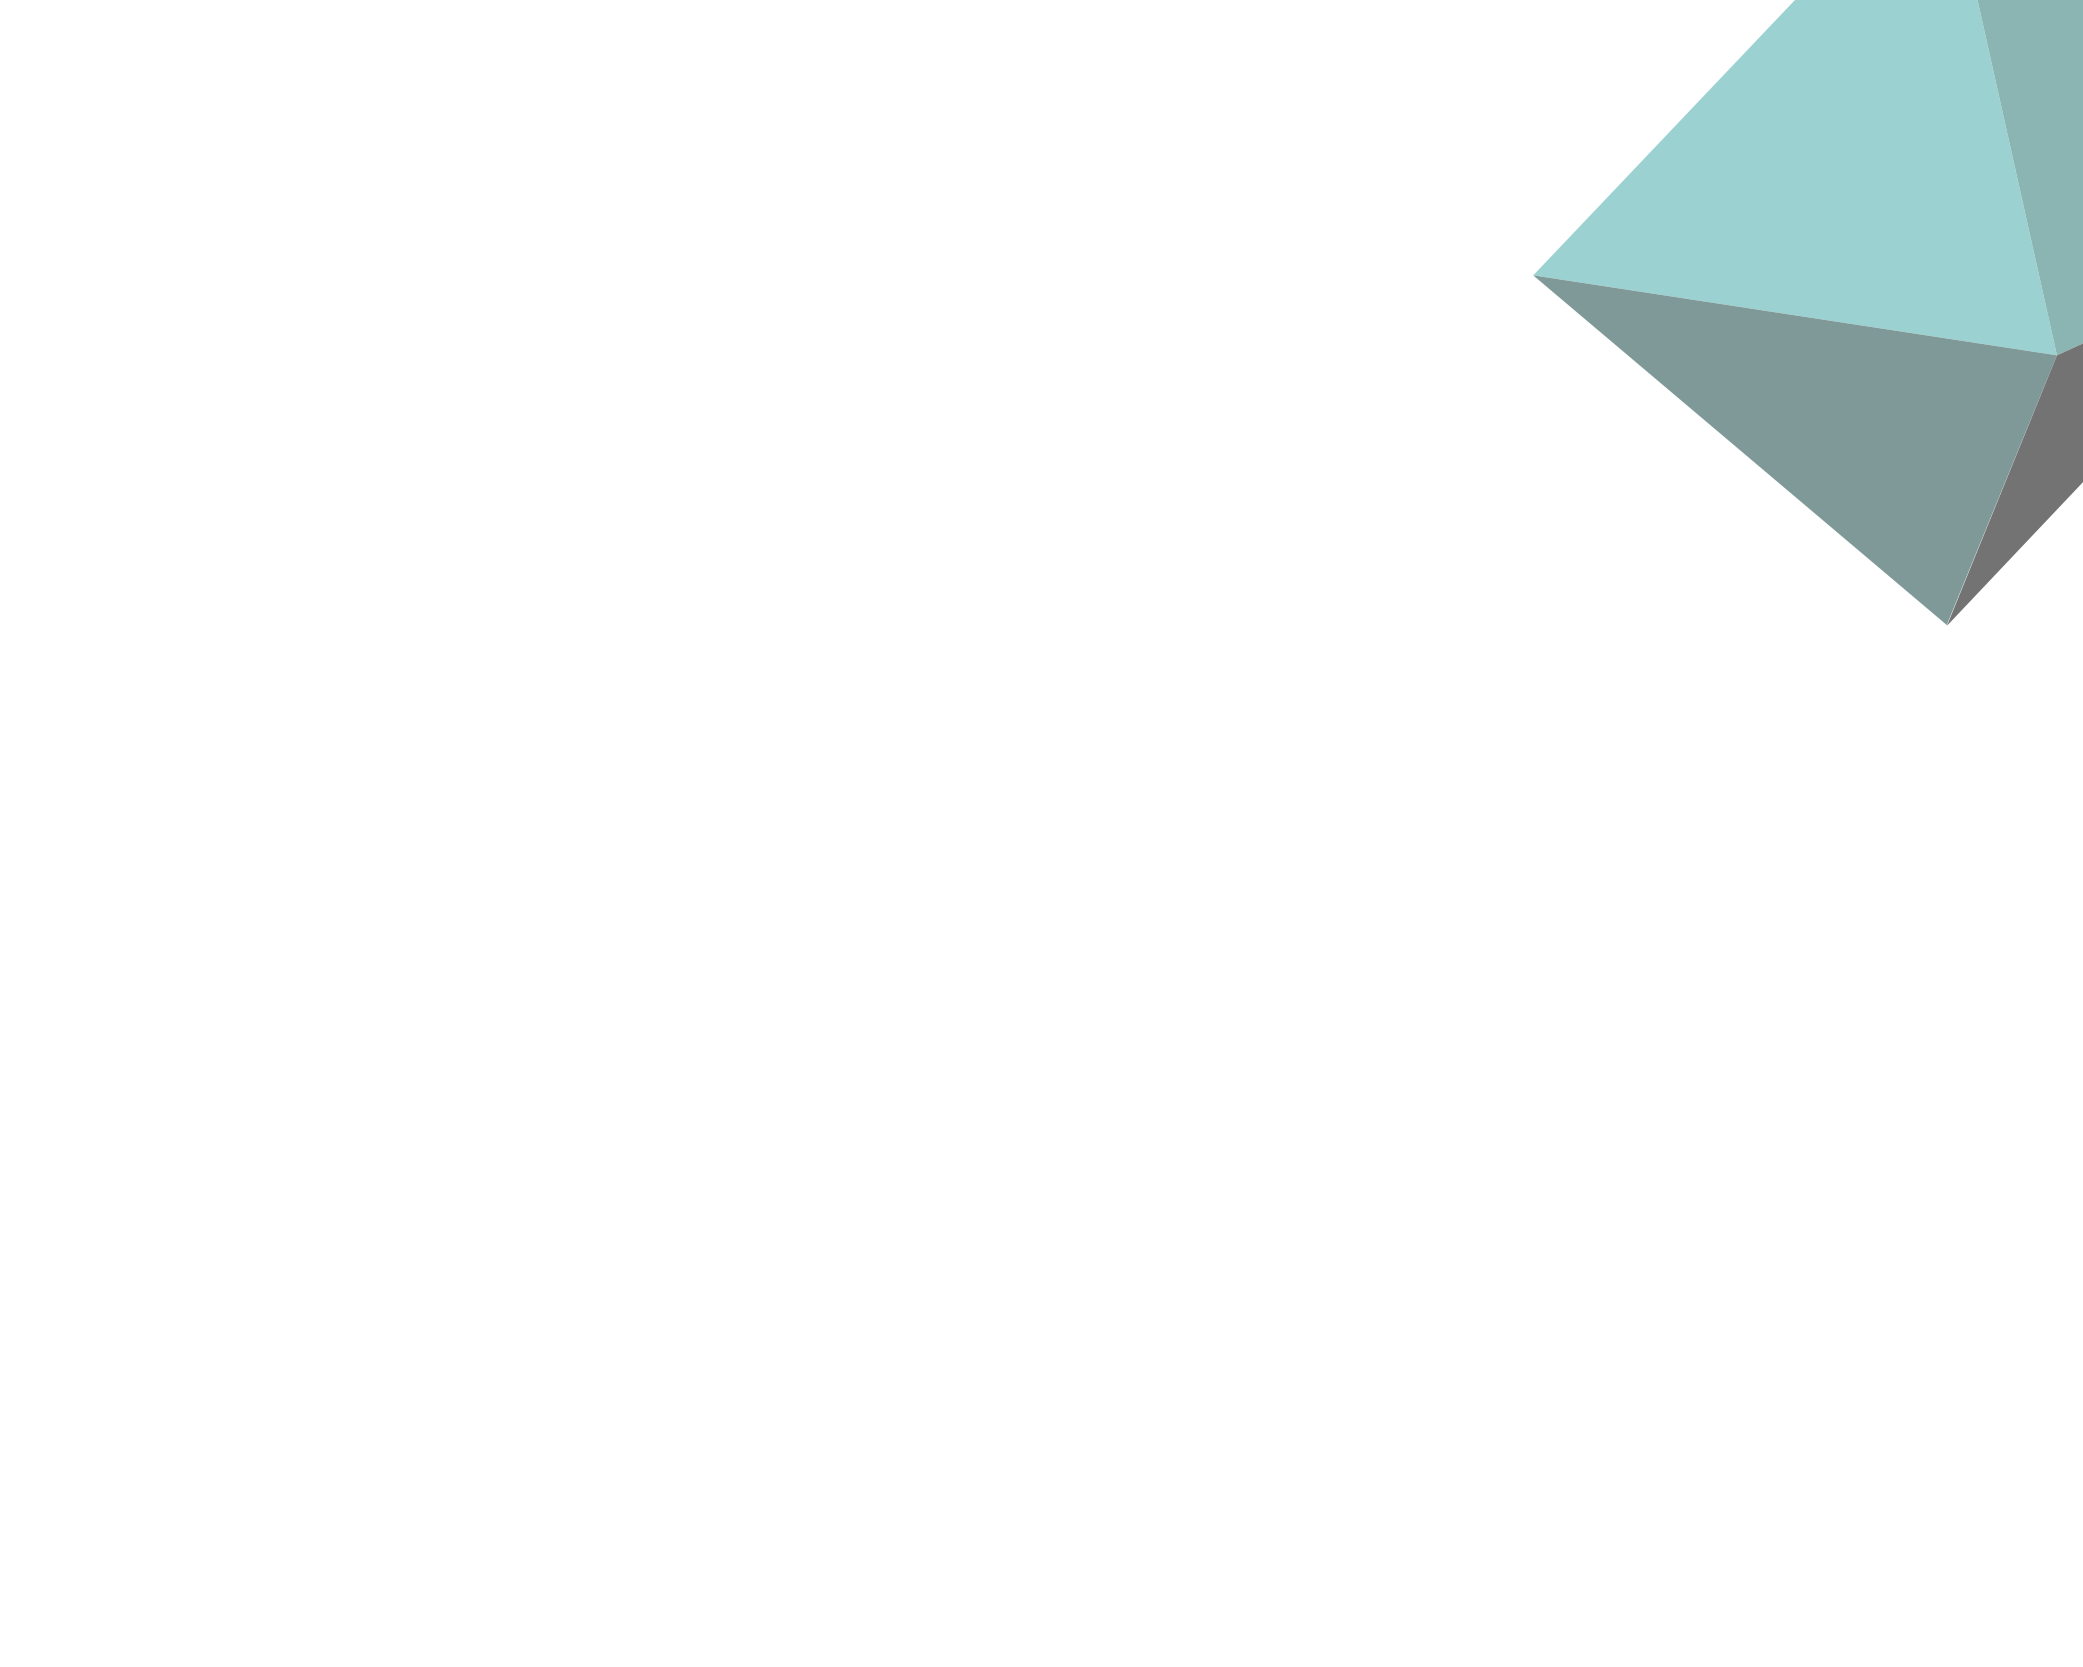
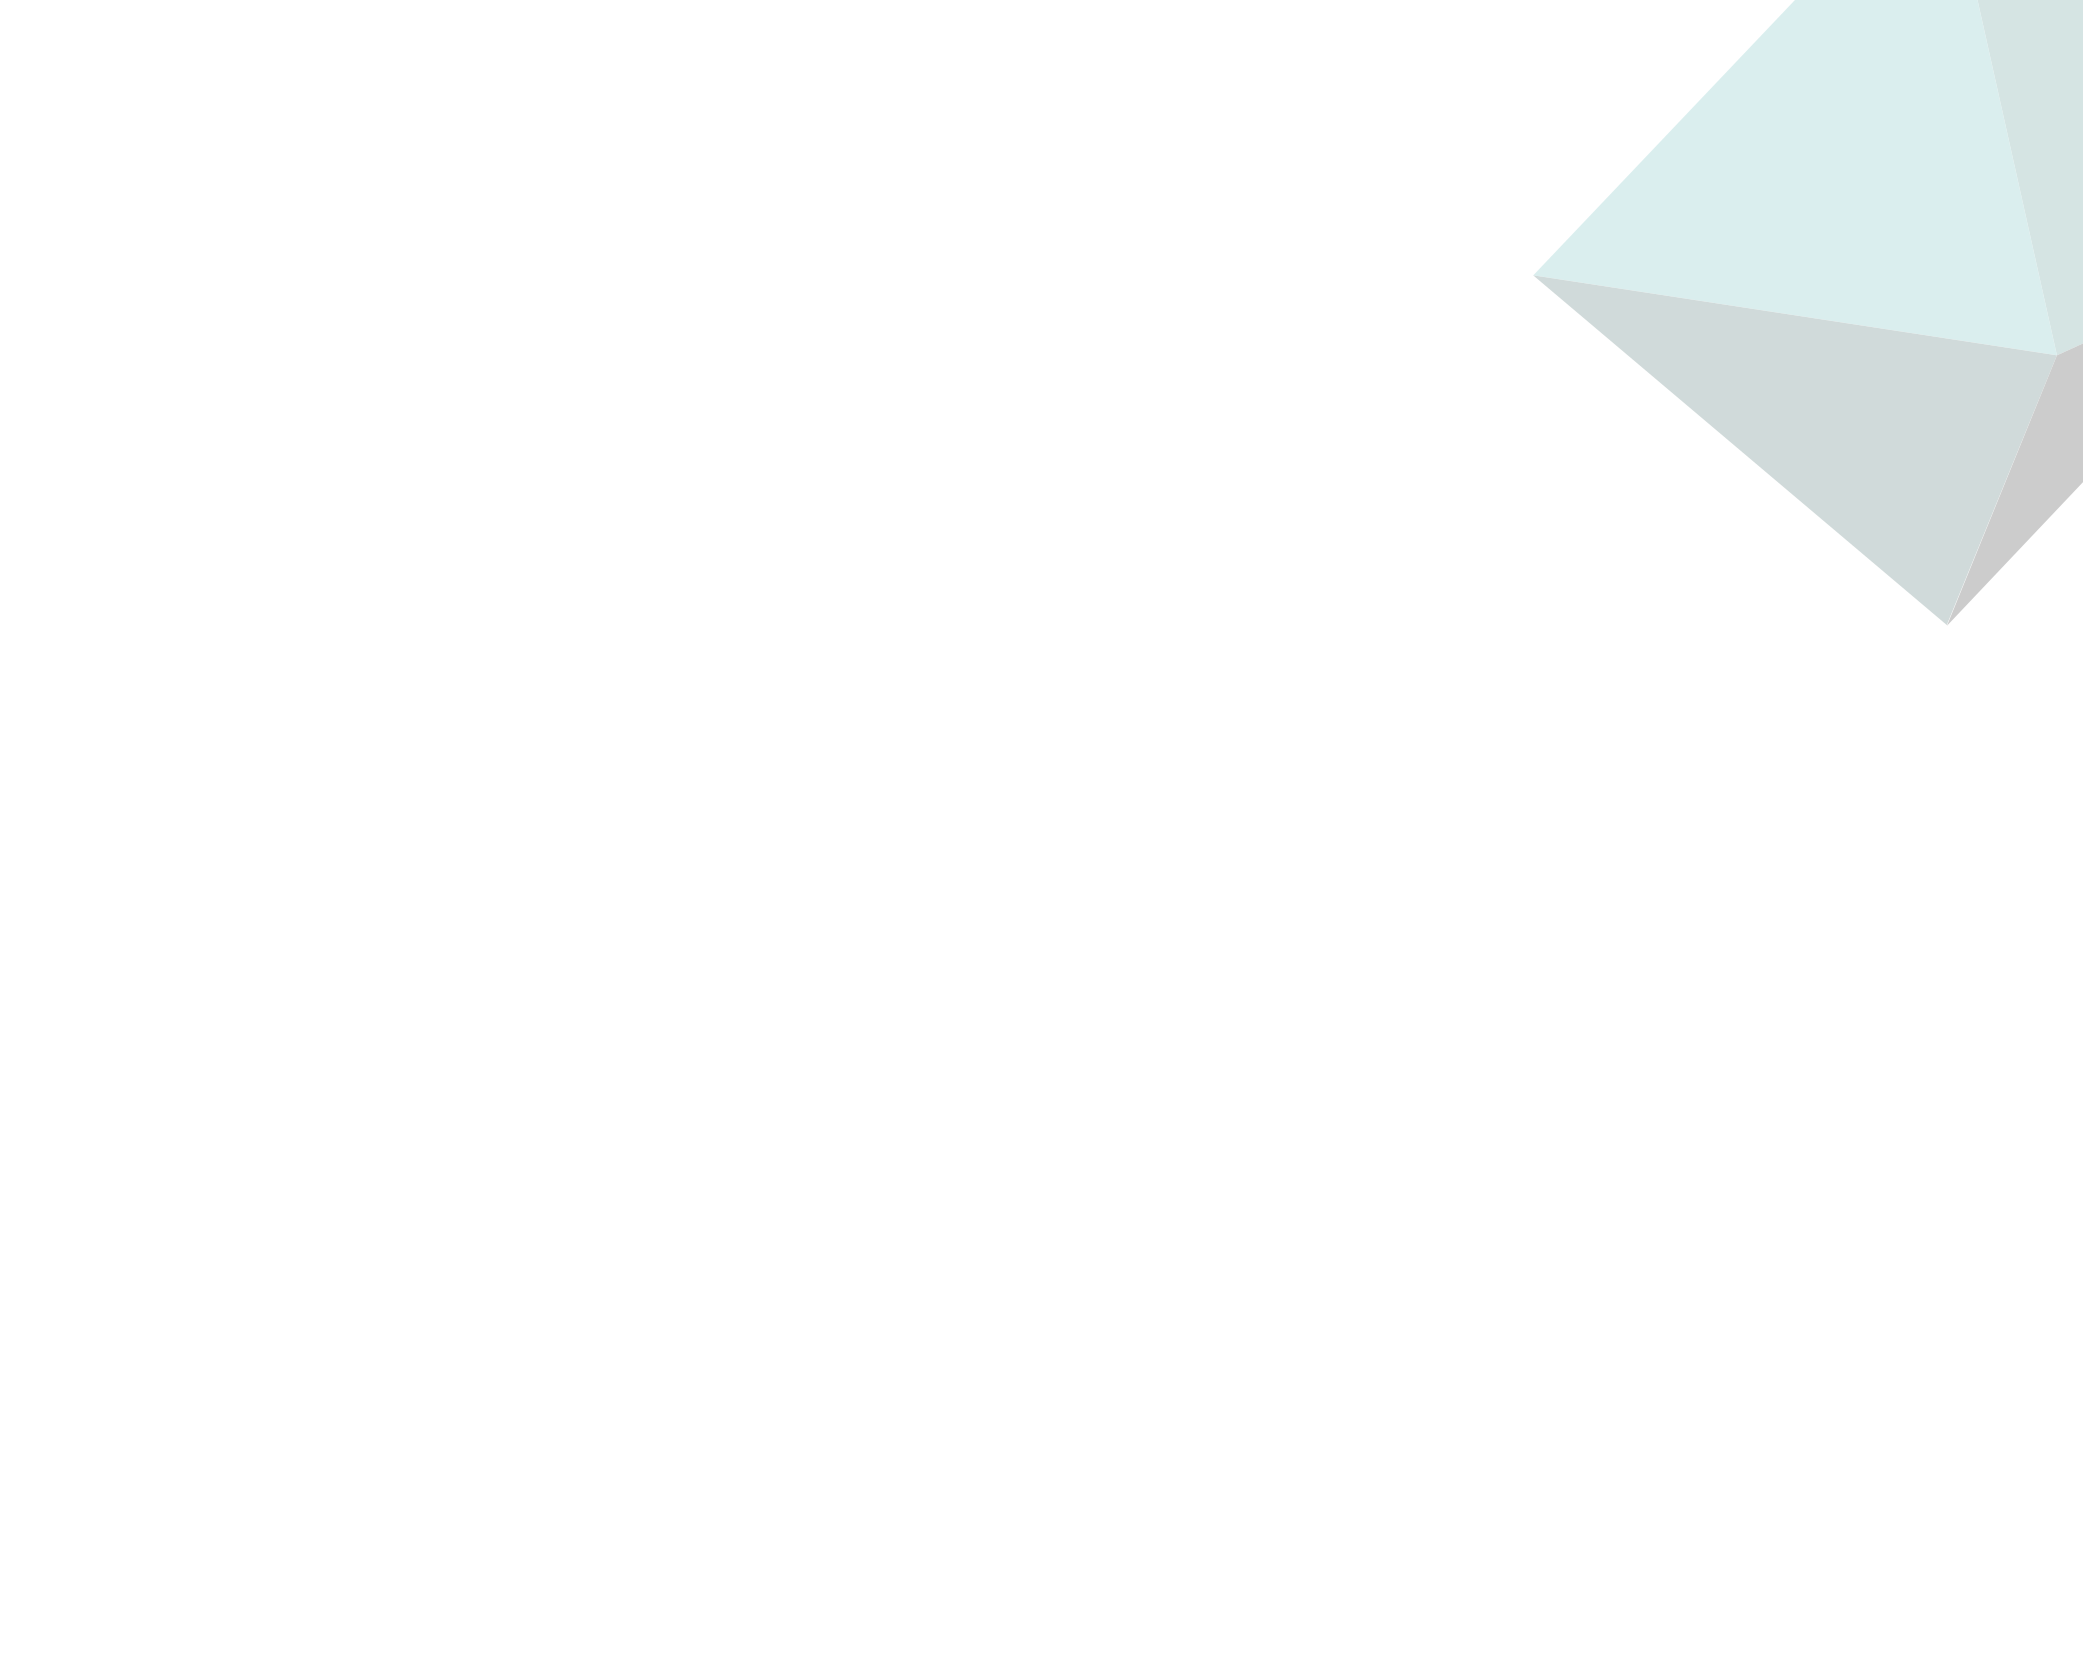
Made homepage responsive + desgin updates
+ chnanged backgrounds to be more faded
+ added correct intro texts for useCases and Features
+ added a bunch of media queries to make things more responsive

Changed region(s): [[0.7177, 0.0, 1.0, 0.3743]]

diff --git a/assets/css/main.css b/assets/css/main.css
@@ -28,7 +28,7 @@
 #landing-flex-box {
   display: flex;
   flex-direction: column;
-  justify-content: space-between;
+  justify-content: space-around;
   height: 100%;
   width: 100%;
   max-width: none;
@@ -55,18 +55,36 @@
 }
 
 #sec-about-us {
-  background-image: url(../../assets/img/backgrounds/bg_oct.png);
+  background-image: url(../../assets/img/backgrounds/bg_oct_md.png);
   background-repeat: no-repeat;
-  background-position: right;
-  background-size: auto 100%;
+  background-position: right top;
+  background-size: contain;
+}
+
+@media (min-width: 992px) {
+  #sec-about-us {
+    background-image: url(../../assets/img/backgrounds/bg_oct.png);
+    background-repeat: no-repeat;
+    background-position: right top;
+    background-size: contain;
+  }
 }
 
 #sec-info {
-  height: 100vh;
-  background-image: url(../../assets/img/backgrounds/bg_dod.png);
+  min-height: 100vh;
+  background-image: url(../../assets/img/backgrounds/bg_dod_md.png);
   background-repeat: no-repeat;
-  background-position: left;
-  background-size: auto 100%;
+  background-position: left bottom;
+  background-size: contain;
+}
+
+@media (min-width: 992px) {
+  #sec-info {
+    background-image: url(../../assets/img/backgrounds/bg_dod.png);
+    background-repeat: no-repeat;
+    background-position: left bottom;
+    background-size: contain;
+  }
 }
 
 .next-sec-button {
@@ -163,15 +181,28 @@ html, body {
 }
 
 .info-paragraph {
-  padding-top: 80px;
+  padding-top: 15vh;
   margin-bottom: 40px;
   text-align: center;
+}
+
+@media (min-width: 576px) {
+  .info-paragraph {
+    font-size: 1.1rem;
+    padding-top: 20vh;
+  }
 }
 
 .med-width-paragraph {
   opacity: 0.7;
   max-width: 600px;
-  margin: auto;
+  margin: 2em auto;
+}
+
+@media (min-width: 1200px) {
+  .med-width-paragraph {
+    max-width: 700px;
+  }
 }
 
 .person-col {
@@ -190,7 +221,7 @@ html, body {
 }
 
 #carousel-1 {
-  max-width: 700px;
+  max-width: 800px;
   margin: auto auto;
 }
 
@@ -335,17 +366,46 @@ html, body {
 }
 
 #use-cases {
-  background: url("../../assets/img/backgrounds/bg_iso.png");
+  background: url("../../assets/img/backgrounds/bg_cube_md.png");
   background-repeat: no-repeat;
-  background-position: left;
-  background-size: auto 100%;
+  background-position: left top;
+  background-size: contain;
   background-color: #f6f6f6;
+  min-height: 100vh;
+}
+
+@media (min-width: 992px) {
+  #use-cases {
+    background: url("../../assets/img/backgrounds/bg_cube.png");
+    background-size: contain;
+    background-repeat: no-repeat;
+    background-position: left top;
+    background-color: #f6f6f6;
+  }
 }
 
 #sec-services {
-  background: url("../../assets/img/backgrounds/bg_tetra.png");
+  background: url("../../assets/img/backgrounds/bg_tetra_md.png");
   background-repeat: no-repeat;
   background-position: right top;
   background-size: contain;
+}
+
+@media (min-width: 992px) {
+  #sec-services {
+    background: url("../../assets/img/backgrounds/bg_tetra.png");
+    background-repeat: no-repeat;
+    background-position: right top;
+    background-size: contain;
+  }
+}
+
+@media (min-width: 992px) {
+  .clean-block .block-heading p {
+    text-align: center;
+    max-width: 620px;
+    margin: auto;
+    opacity: .7;
+  }
 }
 

diff --git a/index.html b/index.html
@@ -46,7 +46,7 @@
                 <div class="mt-10">
                     <div>
                         <h1>Mathematische Beratung&nbsp;</h1>
-                        <h5>wissenschaftlich · effizient · individuell</h5>
+                        <h5 class="px-1">wissenschaftlich · effizient · individuell</h5>
                     </div><button class="btn btn-outline-light btn-lg mt-7" id="learnMoreBtn">Mehr erfahren</button></div>
                 <div id="zitat">
                     <h5>"Mathematik ist das Alphabet, mit dessen Hilfe Gott&nbsp;das Universum&nbsp;beschrieben hat."</h5>
@@ -55,9 +55,9 @@
             </div>
         </section>
         <section id="sec-info" class="clean-block clean-info dark">
-            <div class="container flex-column justify-content-around pt-5">
+            <div class="container flex-column justify-content-around">
                 <div class="info-paragraph">
-                    <h4 class="mb-3"><strong><em>Mathematik ist überall:</em></strong><em>&nbsp;&nbsp;</em><br></h4>
+                    <h4 class="mb-3"><strong><em>Mathematik ist überall:</em></strong><em>&nbsp;</em></h4>
                     <p class="med-width-paragraph">von der Entwicklung von Warteschlangen, über die optimale Nutzung von Ressourcen bis hin zum Suchalgorithmus von Google.<br><br>Dennoch bleibt diese Erkenntnis und damit großes Potenzial beim Lösen von Problemen ungenutzt.<br><br>Wir
                         identifizieren die mathematische Komponente in jeder Fragestellung und finden eine effiziente und kundenspezifische Lösung.&nbsp;<br><br></p>
                 </div>
@@ -68,7 +68,7 @@
             <div class="container">
                 <div class="block-heading">
                     <h2 class="blue5blue mt-5">Leistungen</h2>
-                    <p>Ein&nbsp;erster Überblick unserer Leistungen</p>
+                    <p class="med-width-paragraph">Es gibt kaum ein Problem, das nicht mit Hilfe des mathematischen <br>Werkzeugskasten angegangen werden kann. Geben Sie Ihren Projekten durch wissenschaftliche Herangehensweisen einen neuen Impuls.</p>
                 </div>
                 <div class="row justify-content-center">
                     <div class="col-md-5 feature-box" onclick="location.href=&#39;features.html#feat-stats&#39;"><i class="fa fa-pie-chart icon blue5blue"></i>
@@ -95,7 +95,7 @@
                 <!-- Start: #use-cases -->
                 <div class="block-heading">
                     <h2 class="blue5blue mt-5">Use Cases</h2>
-                    <p>Beispielprojekte an denen wir bereits gearbeitet haben</p>
+                    <p>Mathematische Fragestellungen, die immer wiederkehren und für die wir bereits erfolgreich Projekte durchgeführt haben.</p>
                 </div>
                 <!-- End: #use-cases -->
                 <div class="carousel slide" data-ride="carousel" id="carousel-1">
@@ -130,7 +130,7 @@
                 </div>
             </div>
         </section>
-        <section id="sec-about-us" class="clean-block about-us">
+        <section id="sec-about-us" class="clean-block">
             <div class="container">
                 <div class="block-heading">
                     <h2 class="blue5blue">Über uns</h2>

diff --git a/assets/css/bs_additions.css b/assets/css/bs_additions.css
@@ -10,3 +10,9 @@
   margin-top: 10rem!important;
 }
 
+@media (min-width: 576px) {
+  .info-paragraph h4 {
+    font-size: 1.8rem;
+  }
+}
+
